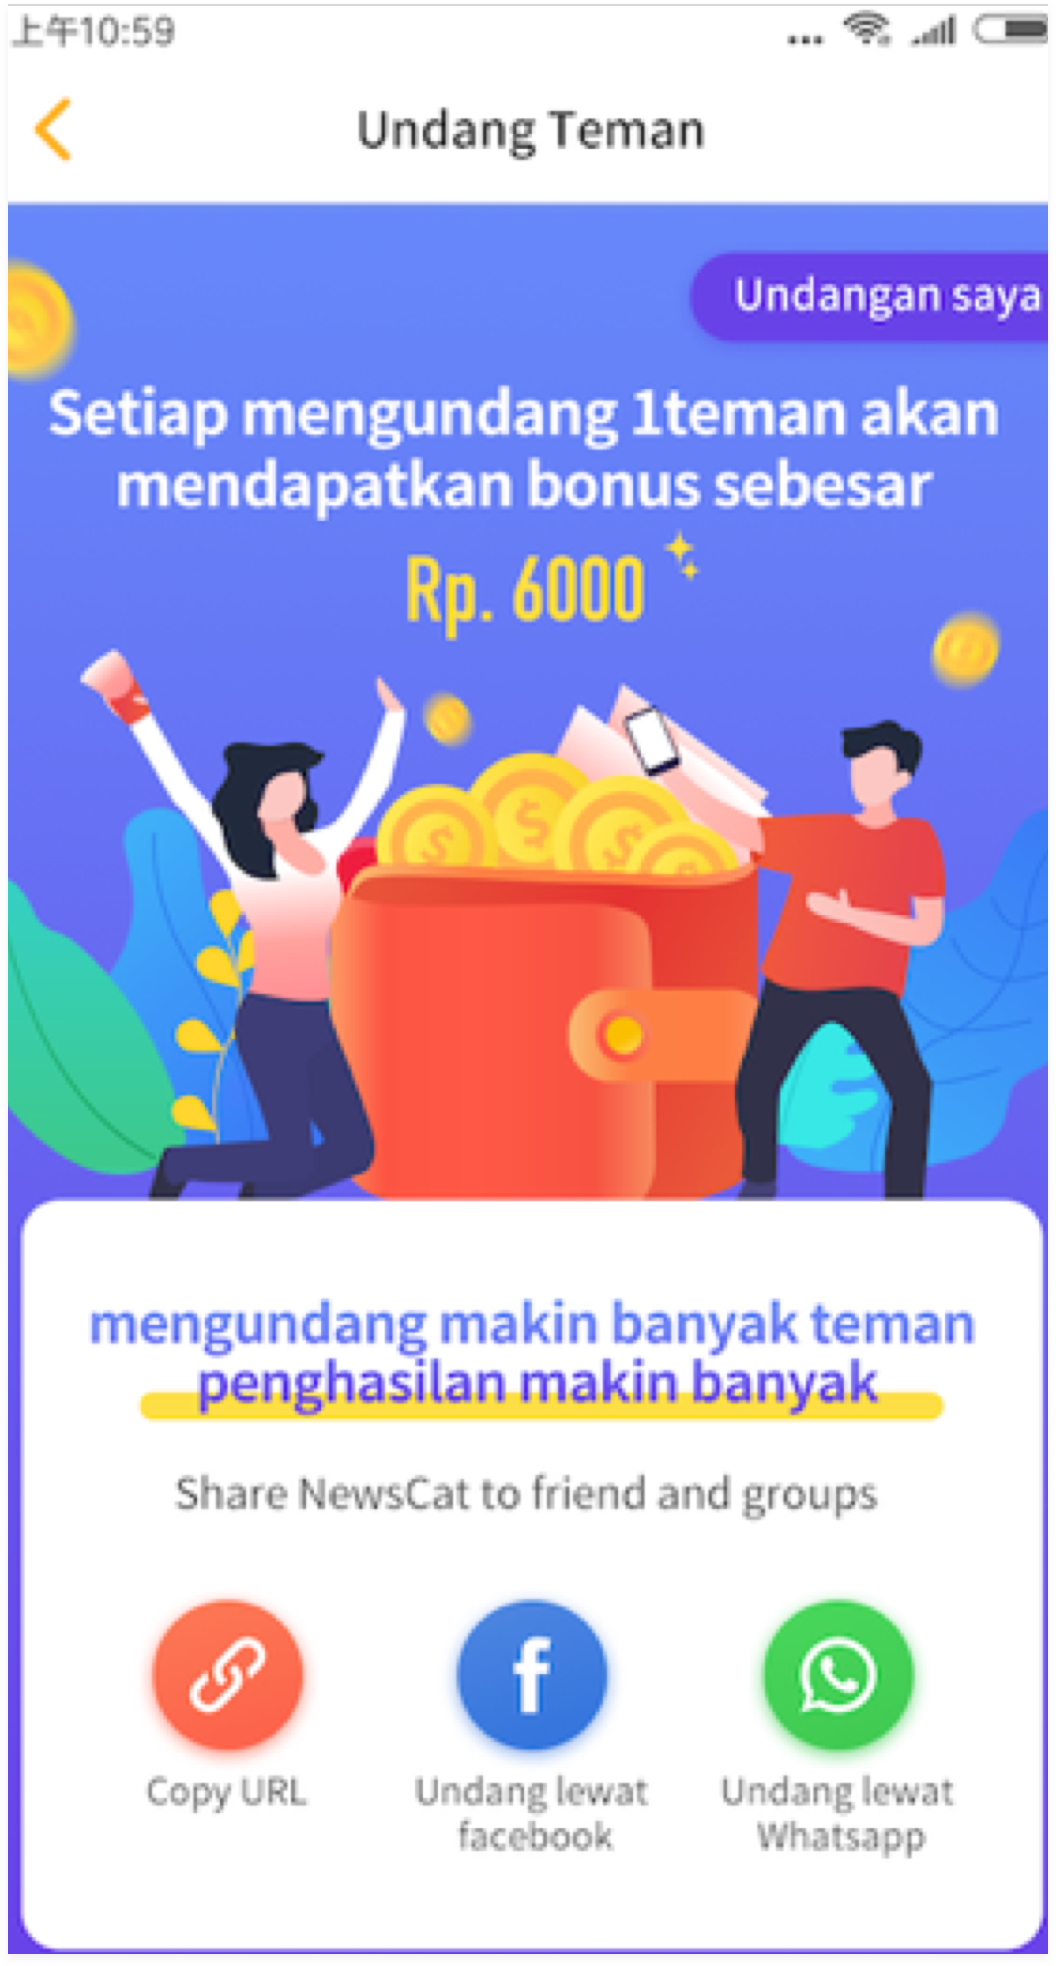
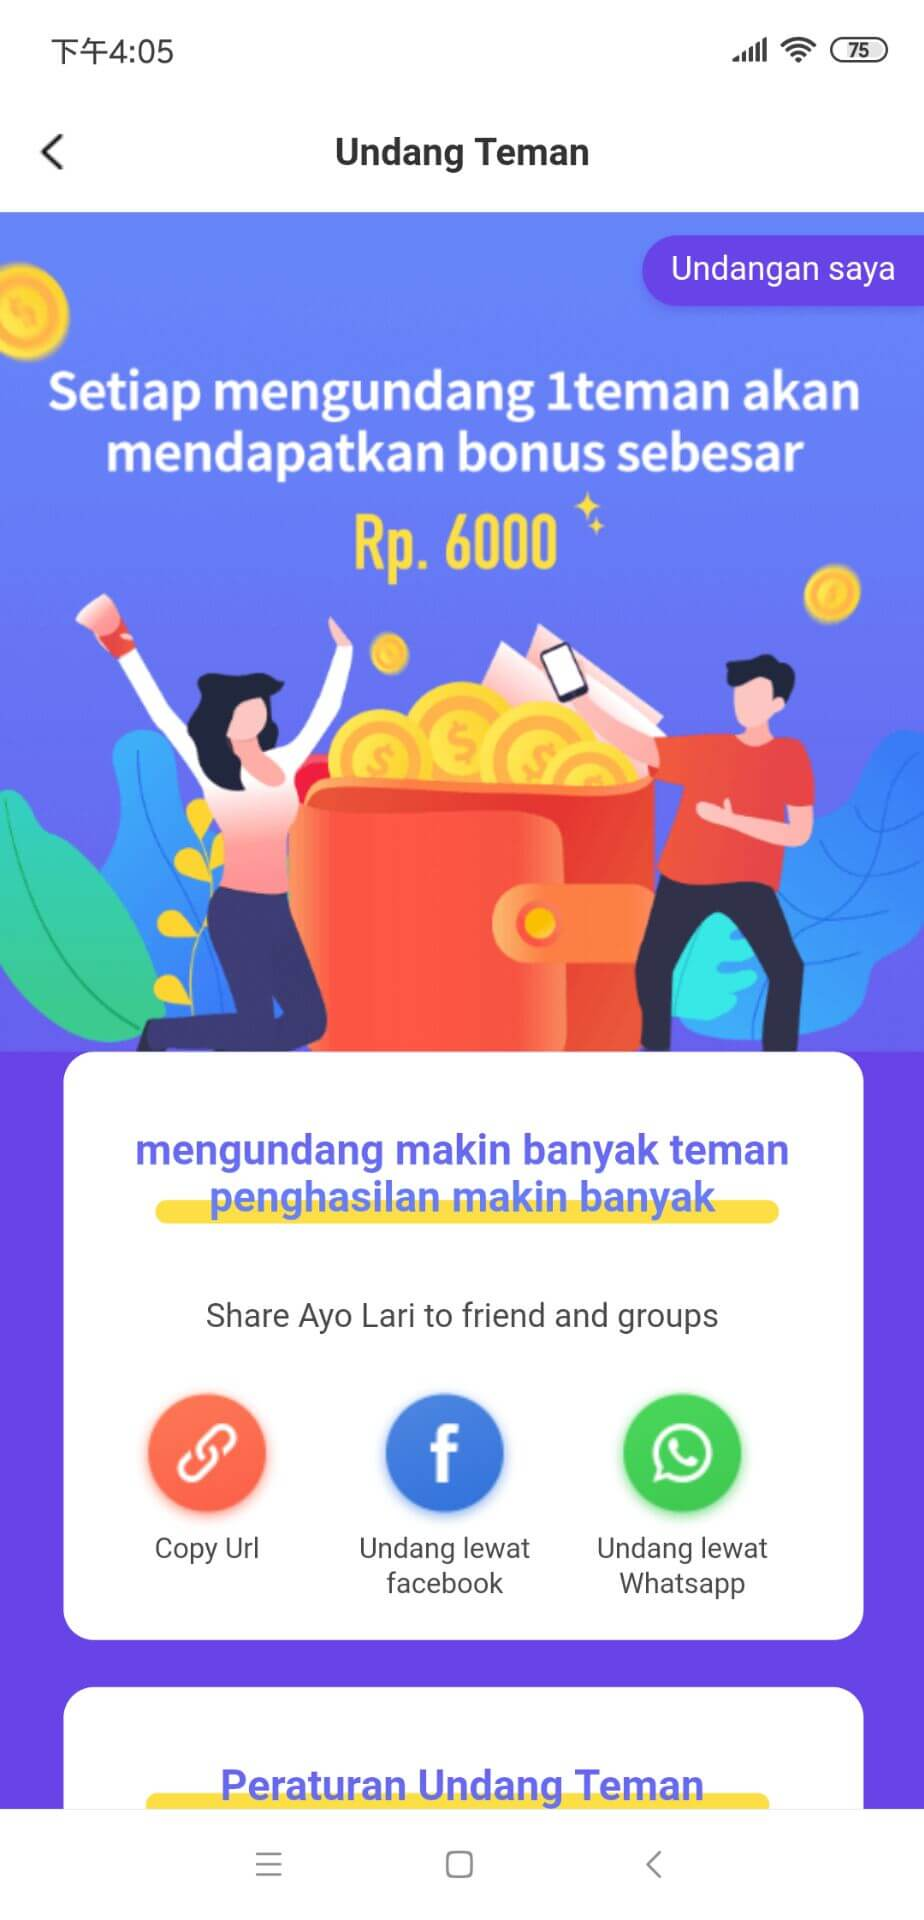
resource update

diff --git a/src/components/questions/Questions.vue b/src/components/questions/Questions.vue
@@ -11,14 +11,14 @@
           <div class="ques-title" id="baru">
               Member Baru
           </div>
-          <p class="sub-title " :class="[ open == 1 ? 'open':'']" @click="fold(1)">Kenapa NewsCash bisa kasih bonus? <i class="icon-arrow"></i></p>
+          <p class="sub-title " :class="[ open == 1 ? 'open':'']" @click="fold(1)">Kenapa Ayo Lari bisa kasih bonus? <i class="icon-arrow"></i></p>
           <div class="ques-anwser" :class="[ open == 1 ? 'open':'']" @click="fold(1)">
-               NewsCash mendukung peyediaan pengalaman membaca bacaan yang berkualitas. Di dalam pengalaman membaca tersebut,
+               Ayo Lari mendukung peyediaan pengalaman membaca bacaan yang berkualitas. Di dalam pengalaman membaca tersebut,
                kami memberikan apresiasi dalam bentuk RPC,
                sebagai pengganti uang.Selain kalian bisa menambah pengetahuan menjadi lebih luas,
                kalian juga bisa mendapatkan penghasilan.
           </div>
-          <router-link to="/how-play"><p class="sub-title"><i class="icon-hot"></i>Cara menggunakan NewsCash <i class="icon-link"></i></p></router-link>
+          <router-link to="/how-play"><p class="sub-title"><i class="icon-hot"></i>Cara menggunakan Ayo Lari <i class="icon-link"></i></p></router-link>
           <p class="sub-title" :class="[ open == 2 ? 'open':'']" @click="fold(2)">Berita tidak muncul <i class="icon-arrow"></i></p>
           <div class="ques-anwser" :class="[ open == 2 ? 'open':'']" @click="fold(2)">
               Apakah kamu tidak bisa memuat semua berita atau hanya sebagian saja?
@@ -32,13 +32,13 @@
           </div>
           <p class="sub-title" :class="[ open == 3 ? 'open':'']" @click="fold(3)">Apa itu RPC?<i class="icon-arrow"></i></p>
           <div class="ques-anwser" :class="[ open == 3 ? 'open':'']" @click="fold(3)">
-            RPC adalah sebuah unit mata uang didalam NewsCash. Semua RPC yang dihasilkan bisa anda tukarkan
+            RPC adalah sebuah unit mata uang didalam Ayo Lari. Semua RPC yang dihasilkan bisa anda tukarkan
 
             dengan Pencairan Cepat atau Pencairan Bersyarat, bisa ditemukan di "Saya" -> "Penghasilan Saya"
           </div>
           <p class="sub-title" :class="[ open == 4 ? 'open':'']" @click="fold(4)">Bonus Absen/Bonus Buka Peti Emas<i class="icon-arrow"></i></p>
           <div class="ques-anwser" :class="[ open == 4 ? 'open':'']" @click="fold(4)">
-            Bonus Absen : Buka NewsCash selama 7 hari secara berurutan pada
+            Bonus Absen : Buka Ayo Lari selama 7 hari secara berurutan pada
 
             "Tugas" bisa dapat bonus RPC, setiap hari bisa diambil! Bonus dibagi
 
@@ -65,9 +65,9 @@
             pemberitahuan bonus tidak muncul.<br>
 
 
-            Situasi 4 : Silahkan periksa kembali versi aplikasi NewsCash pastikan versi
+            Situasi 4 : Silahkan periksa kembali versi aplikasi Ayo Lari pastikan versi
 
-            NewsCash kamu adalah yang paling baru, jika belum silahkan perbaharui
+            Ayo Lari kamu adalah yang paling baru, jika belum silahkan perbaharui
 
             ke versi paling baru.<br>
           </div>
@@ -119,9 +119,9 @@
           </div>
           <p class="sub-title" :class="[ open == 9 ? 'open':'']" @click="fold(9)">Kenapa  akun saya diblokir?<i class="icon-arrow"></i></p>
           <div class="ques-anwser" :class="[ open == 9 ? 'open':'']" @click="fold(9)">
-               NewsCash memiliki mekanisme anti-kecurangan yang sangat ketat.
+               Ayo Lari memiliki mekanisme anti-kecurangan yang sangat ketat.
                Jika sekali ditemukan bahwa ada kecurangan maka akan dilarang selamanya, 
-               kami berharap semua orang dapat bekerja sama untuk demi menjaga kelancaran dan ketertiban NewsCash.
+               kami berharap semua orang dapat bekerja sama untuk demi menjaga kelancaran dan ketertiban Ayo Lari.
           </div>
 
   </div>

diff --git a/src/components/questions/HowPlay.vue b/src/components/questions/HowPlay.vue
@@ -1,10 +1,10 @@
 <template>
   <div class="question-container">
-          <BHeader title="Cara menggunakan NewsCash" />
+          <BHeader title="Cara menggunakan Ayo Lari" />
           <div class="fixContant">
           <div class="ques-play-title">
                <img src="../../assets/images/question/logo@2x.png" />
-               <p>Mengajari kamu bermain NewsCash <br>
+               <p>Mengajari kamu bermain Ayo Lari <br>
                     Mudah meghasilkan uang</p>
                     Masih tidak tahu cara menghasilkan uang jajan!
                     Dibawah ini kita sama sama liat bagaimana 
@@ -14,7 +14,7 @@
           <p class="sub-title bt" :class="[ open == 1 ? 'open':'']" @click="fold(1)">Bonus membaca artikel<i class="icon-arrow"></i></p>
           <div class="ques-anwser" :class="[ open == 1 ? 'open':'']" @click="fold(1)">
                (1) Setelah Login kalian bisa melihat artikel yang 
-      kami sarankan untuk ada baca di NewsCash,jika 
+      kami sarankan untuk ada baca di Ayo Lari,jika 
       kalian melihat artikel yang menarik kalian bisa 
       langsung klik untuk baca, baca seluruhnya,kalian 
       bisa secara acak dapat bonus sampai <span class="redMark">100 RPC</span>.
@@ -45,7 +45,7 @@
           <div class="ques-anwser" :class="[ open == 3 ? 'open':'']" @click="fold(3)">
               Bisa langsung dapat bonus tertinggi jika mengundang teman, setiap mengundang 1 orang teman kamu akan dapat Rp.6000 (dibagikan bertahap, 
               silahkan cek peraturan untuk lebih detail);<br>
-              Buka NewsCash klik <span class="redMark">"Saya" -> "Mengundang teman" -> salin URL,</span> bagikan URL Undangan lewat Facebook dan WhatsApp, lalu teman kamu akan memasukkan nomor handphone dan langsung unduh lalu
+              Buka Ayo Lari klik <span class="redMark">"Saya" -> "Mengundang teman" -> salin URL,</span> bagikan URL Undangan lewat Facebook dan WhatsApp, lalu teman kamu akan memasukkan nomor handphone dan langsung unduh lalu
                 pendaftaran berhasil, mengundang teman juga telah berhasil.
                 <img src="../../assets/images/question/que10@2x.png" />
                 <img src="../../assets/images/question/que11@2x.png" />

diff --git a/src/components/questions/HowInvite.vue b/src/components/questions/HowInvite.vue
@@ -7,13 +7,13 @@
          <div class="ques-invite-text">
              Saat Anda mengadakan pesta dengan teman dan keluarga, mengobrol, bertemu, dan sebagainya.
             Anda dapat merekomendasikan 
-            NewsCash langsung kepada kerabat Anda, 
+            Ayo Lari langsung kepada kerabat Anda, 
             menggunakan Facebook, WhatsApp atau langsung membagikan URL yang disalin ke teman Anda untuk diunduh dan diinstal.
             
          </div>
         <ol class="ques-invite-ol">
             <li>
-               Buka <span class="yellow">NewsCash</span>, pada pojok kanan bawah klik  <span class="yellow">"Saya" (1) </span>
+               Buka <span class="yellow">Ayo Lari</span>, pada pojok kanan bawah klik  <span class="yellow">"Saya" (1) </span>
             </li>
             <li>
               klik <span class="yellow"> "Undang Teman" (2) </span> untuk masuk ke halaman mengundang teman.
@@ -22,12 +22,12 @@
             <li>
                  Klik "Copy Url" untuk bisa langsung kirim tautan ke 
                 temanmu atau grup, bagikan kebanyak teman 
-                untuk unduh NewsCash, juga bisa lewat Facebook,
+                untuk unduh Ayo Lari, juga bisa lewat Facebook,
                 WhatsApp untuk bagikan tautan. Saat teman anda 
                 klik tautan yang kamu kirim, mereka akan diminta 
                 masukkan "Nomor Handphone", klik "Segera 
                 Unduh" akan langsung diarahkan ke Google Play 
-                Store untuk unduh aplikasi NewsCash, 
+                Store untuk unduh aplikasi Ayo Lari, 
                 mengundang teman sukses.
                 <img src="../../assets/images/question/que2@2x.png" />
                 <img src="../../assets/images/question/que3@2x.png" />

diff --git a/src/components/digital-game/Game.vue b/src/components/digital-game/Game.vue
@@ -75,7 +75,7 @@ jawab pertanyaan menangkan Bonus" /> -->
         <li>
             <i class="order-box">2</i>
             <p class="text">
-                Jika kesempatan jawaban harian habis, Anda bisa mengundang teman. Setiap kali Anda mengundang teman dan mengunduh lalu login aplikasi NewsCash, anda diberikan kesempatan 1x lagi untuk menjawab kuis, atau menggunakan Koin untuk mendapatkan kesempatan menjawab. Tukar 1x dapat 1x kesempatan, jumlah koin yang dibutuhkan 100 Koin;
+                Jika kesempatan jawaban harian habis, Anda bisa mengundang teman. Setiap kali Anda mengundang teman dan mengunduh lalu login aplikasi Ayo Lari, anda diberikan kesempatan 1x lagi untuk menjawab kuis, atau menggunakan Koin untuk mendapatkan kesempatan menjawab. Tukar 1x dapat 1x kesempatan, jumlah koin yang dibutuhkan 100 Koin;
             </p>
         </li>
          <li>
@@ -107,7 +107,7 @@ jawab pertanyaan menangkan Bonus" /> -->
          <li>
             <i class="order-box">7</i>
             <p class="text">
-                  Jika ada pelanggaran terhadap partisipasin dalam permainan, NewsCash berhak membatalkan partisipasin dari event, dan jika perlu berhak untuk mengambil langkah hukum;
+                  Jika ada pelanggaran terhadap partisipasin dalam permainan, Ayo Lari berhak membatalkan partisipasin dari event, dan jika perlu berhak untuk mengambil langkah hukum;
             </p>
         </li>
          <li>
